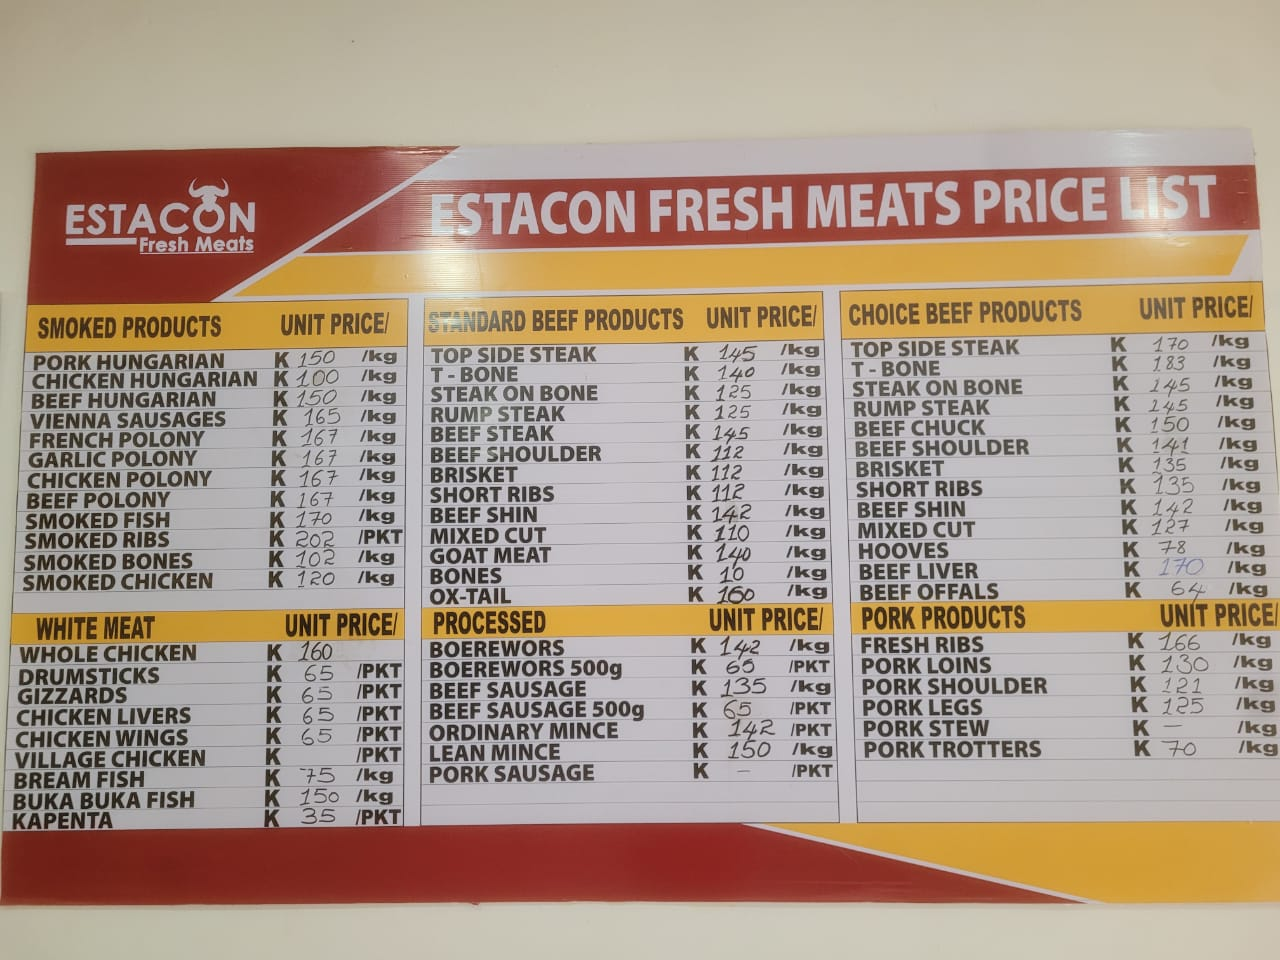
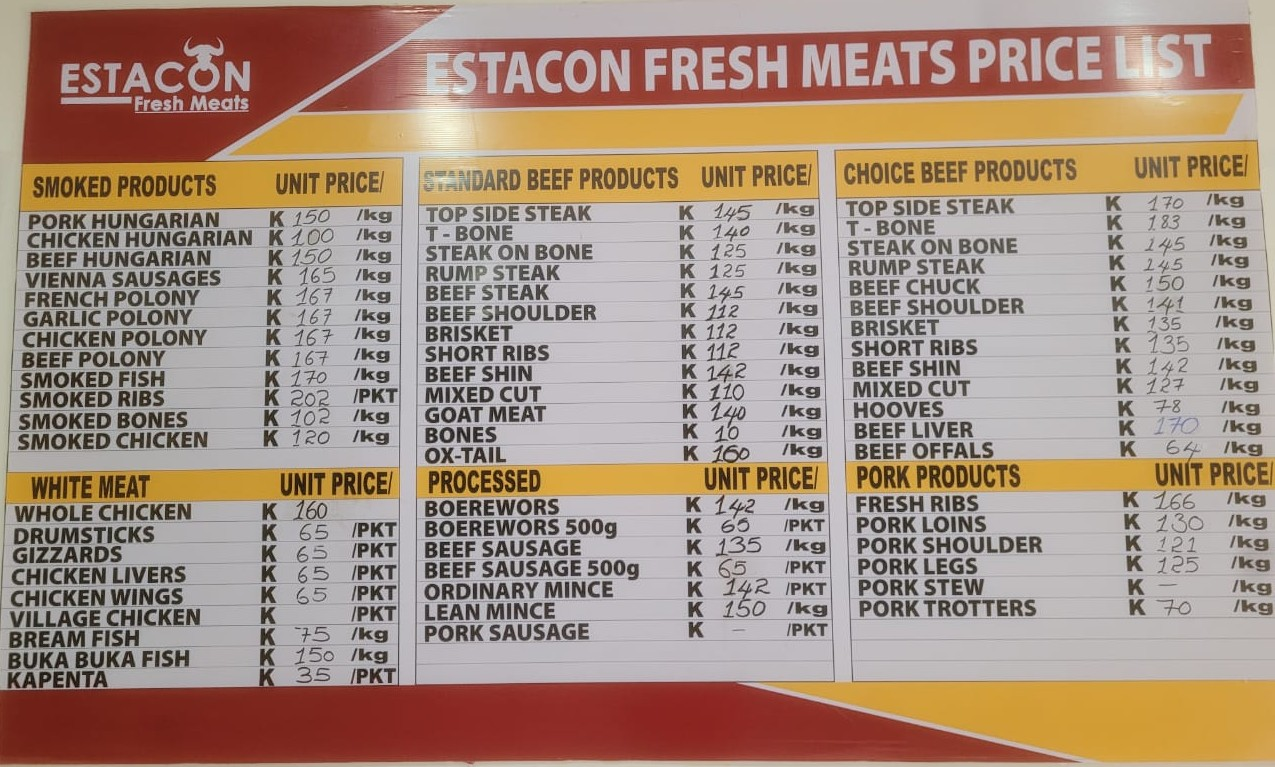
Add files via upload

diff --git a/index.html b/index.html
@@ -437,7 +437,7 @@ section {
           <div class="card-body text-center">
             <h5 class="product-title">Premium Beef Sausage</h5>
             <p class="price">K95 / kg</p>
-            <a href="https://wa.me/260975316248?text=Hello%20I%20want%20Premium%20Beef%20Sausage%20(K95/kg)" class="btn btn-danger w-100">Order on WhatsApp</a>
+            <a href="https://wa.me/260975316248?text=Hello%20I%20want%20Premium%20Beef%20Sausage%20(K95/kg)" class="btn btn-danger w-100">Order </a>
           </div>
         </div>
       </div>
